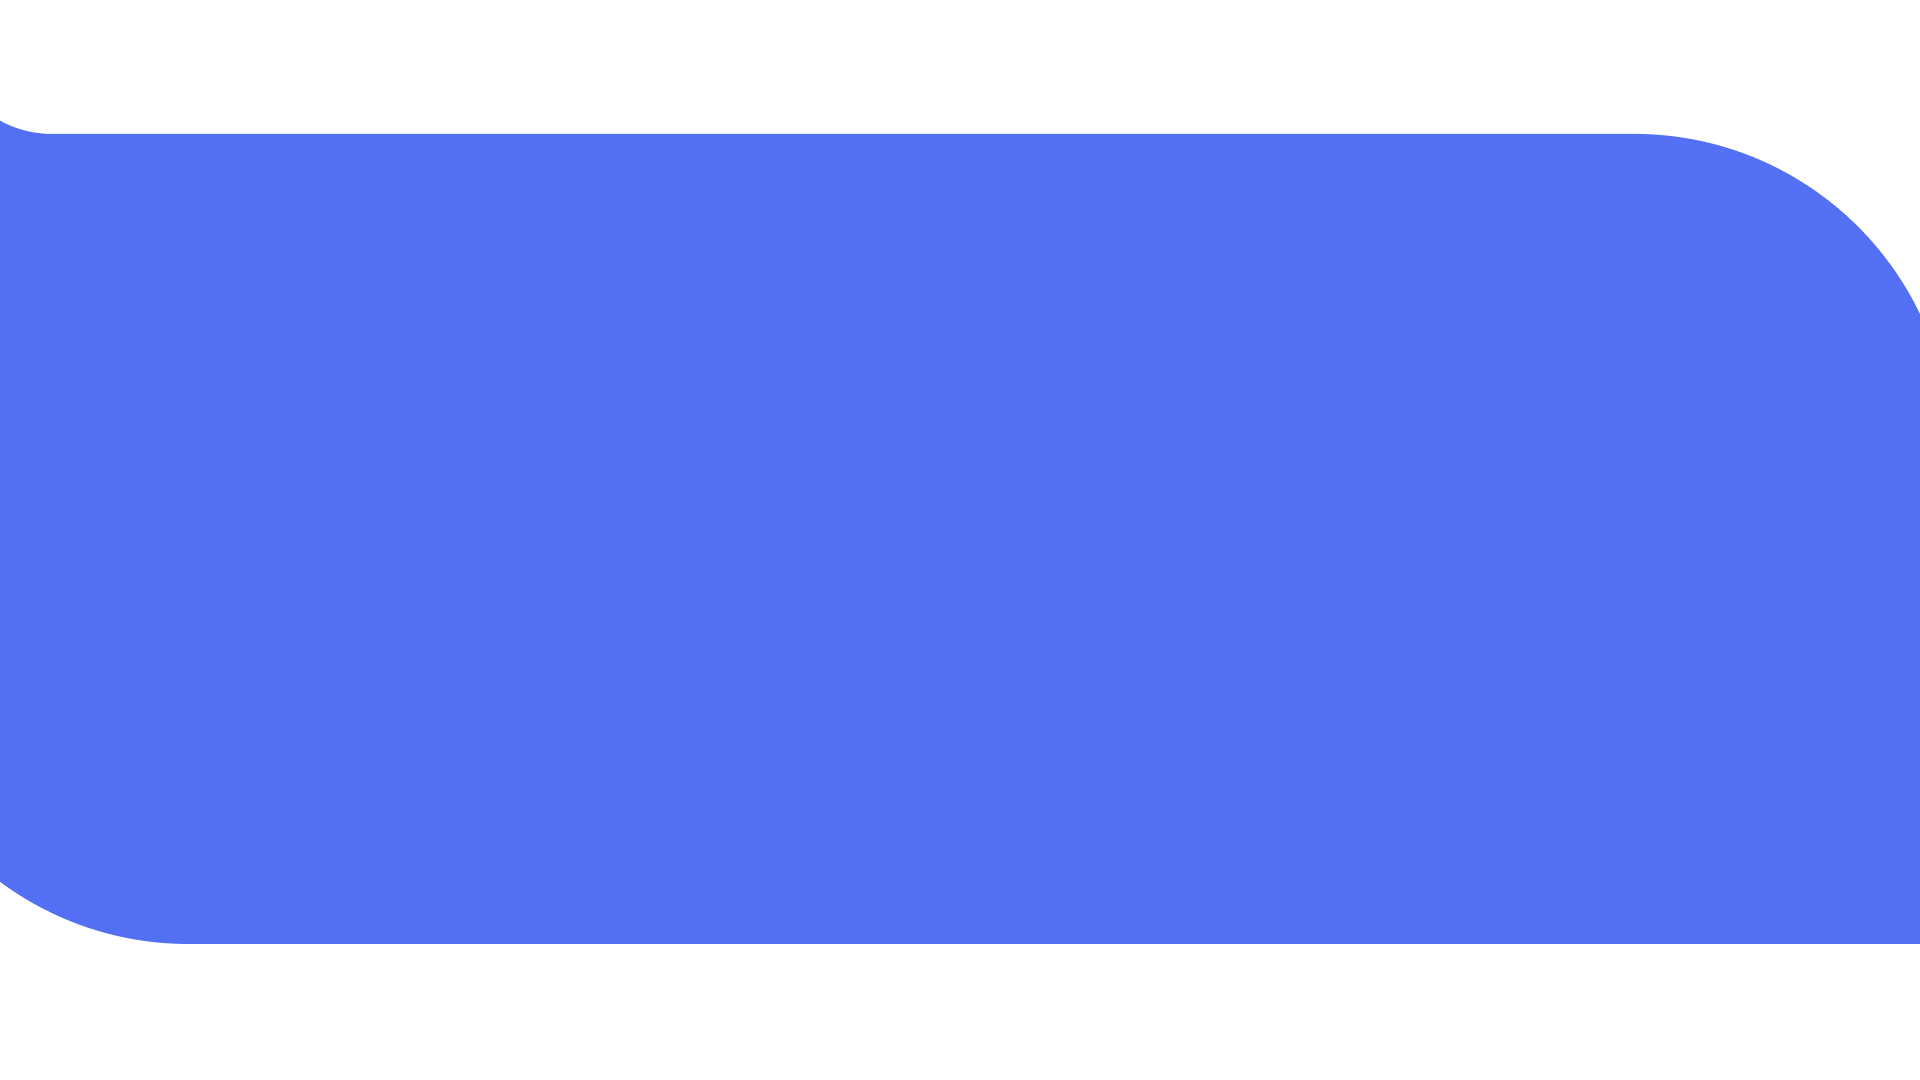
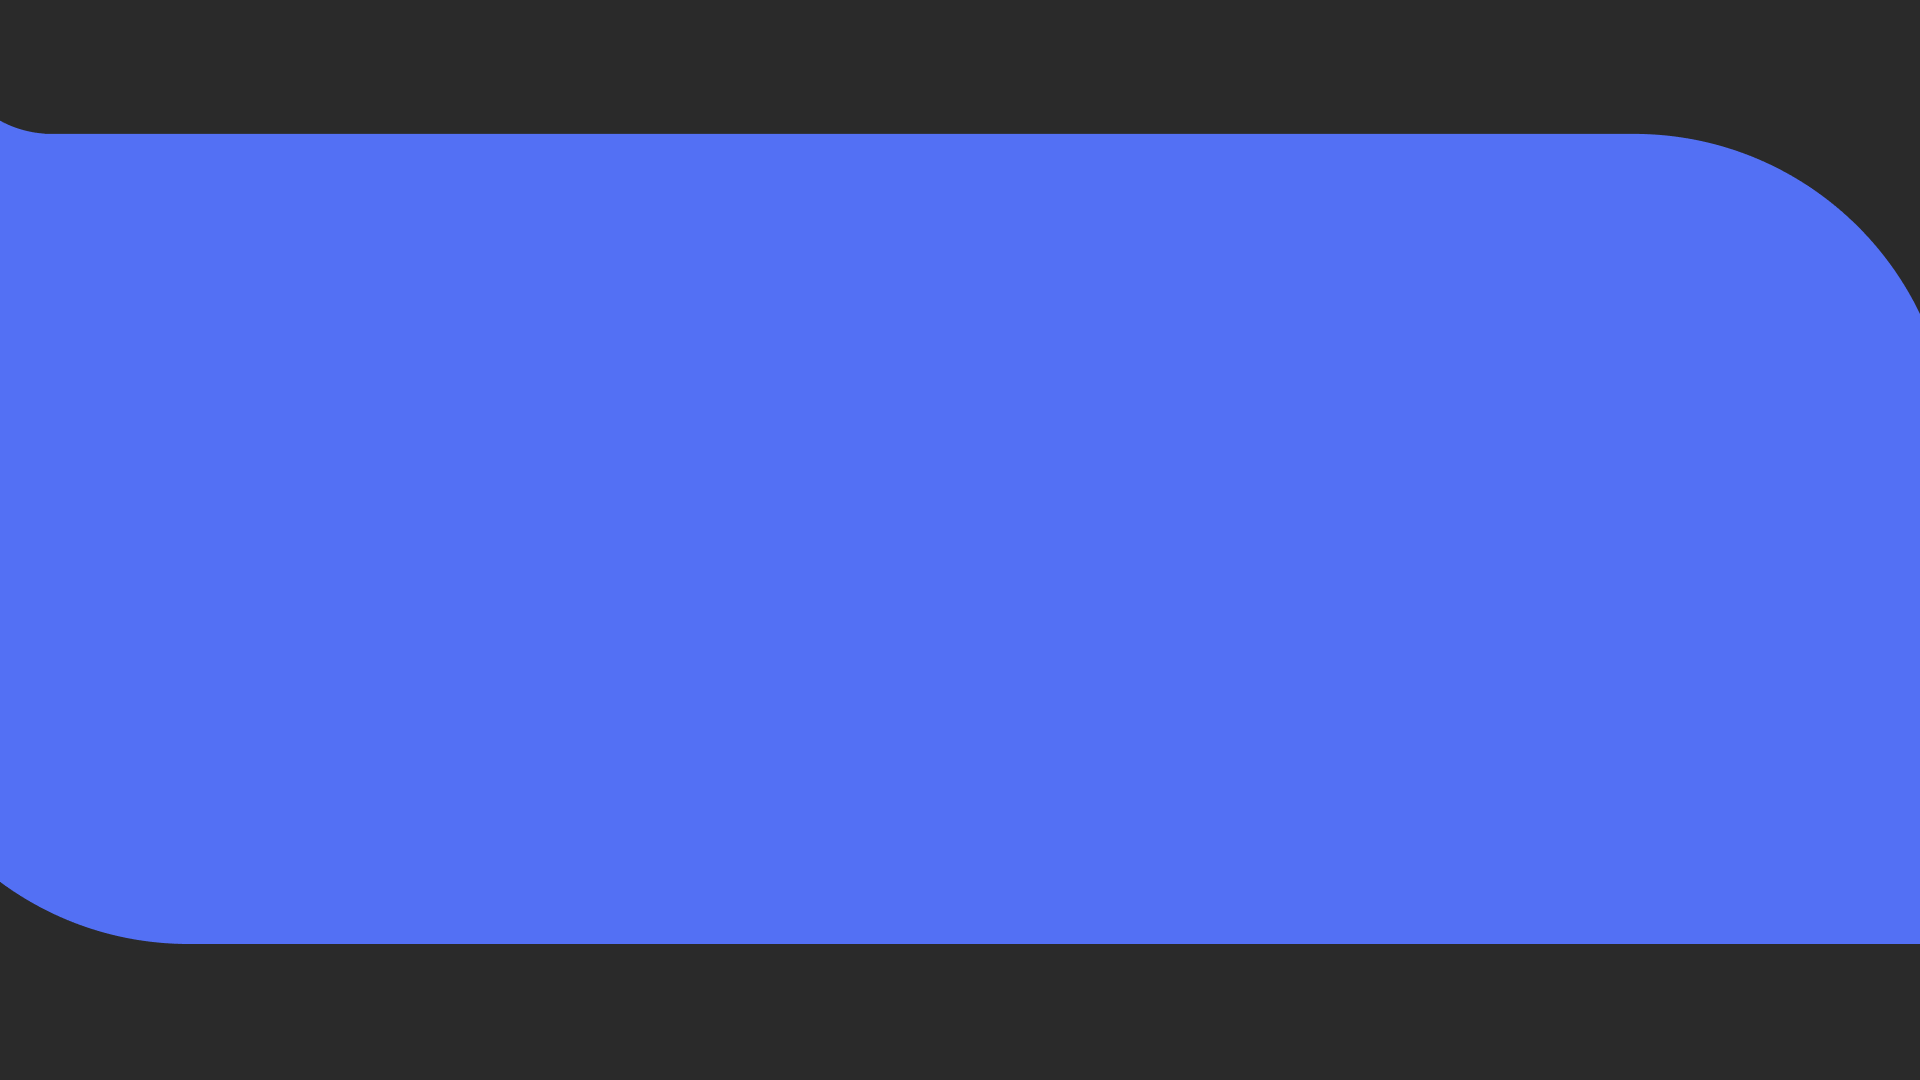
decorate

Changed region(s): [[0.0, 0.825, 1.0, 1.0], [0.0, 0.0, 1.0, 0.275]]

diff --git a/templates/template.html b/templates/template.html
@@ -9,12 +9,13 @@
 </head>
 <body class="custombg">
   <header>
-    <nav class="navbar navbar-expand-lg bg-primary">
+    <nav class="navbar navbar-expand-lg navbar-light shadow-lg">
       <div class="container-fluid">
-        <a class="navbar-brand" href="/" style="color: white;">Sketch2Face</a>
-        <div class="collapse navbar-collapse" id="navbarNavAltMarkup">
+        <!--<a class="navbar-brand" href="/" style="color: white;">Sketch2Face</a>-->
+        <img src="https://i.imgur.com/bp1wcmv.png">
+        <div class="collapse navbar-collapse" id="navbarNavAltMarkup" style="margin-left: 2rem">
           <div class="navbar-nav">
-            <a class="nav-link active" aria-current="page" href="/" style="color: white;">Generate</a>
+            <a class="nav-link active" aria-current="page" href="/" style="color: #5370F4;">Generate</a>
             <a class="nav-link" href="/records" style="color: white;">Records</a>
           </div>
           <div class="navbar-nav ms-auto">
@@ -25,17 +26,23 @@
     </nav>
   </header>
     <div  class="container d-flex justify-content-center " style="margin-top : 7rem;">
-      <form id="formElem"class="p-2" style=" margin-right: 10rem ;">
-        <h2>Sketch image</h2>
+      <form id="formElem"class="p-2" style=" margin-right: 5rem ;">
+        <h2 style="font-weight: bold; color: white">Sketch</h2>
         <div id="display-image" class="imag" style="background-color: white;"></div>
-        <input type="file" id="image-input" accept="image/*" name="image" required><br />
-        <input type="submit"  class="btn btn-light" value="Submit" >
-      </form>
+        <input type="file" id="image-input" accept="image/*" name="image" required style="color: white; margin-top:10px"><br />
+        <input type="submit"  class="submit1" value="Submit" style="margin-top:5px">
+      </form> 
+      <div class="justify-content-center  p-2" style=" margin-right: 15rem ;">
+        <div class="vertical-center " >
+          <img src="https://i.imgur.com/MCjKfnN.png"
+          alt="arrow" class="w-50 vh-50" style=" object-position: left; padding: 1rem; margin-top: 1rem;">
+        </div>
+      </div>
       <div class="p-2">
-        <h2>Generate image</h2>
-        <div id="receive-image" class="imag" style="background-color: white;" ></div>
-        <a href="" id="a"><button id="saveImage" class="btn btn-light">Download image</button></a>
-        <button onclick="saveDB()" id="saveDB" class="btn btn-light">Save to Database</button>
+        <h2 style="font-weight: bold; color: white">Generate</h2>
+        <div id="receive-image" class="imag" style="background-color: white; margin-bottom:10px" ></div>
+        <a href="" id="a"><button id="saveImage" class="button-1" style="width:128px; height:55px">Download image</button></a>
+        <button onclick="saveDB()" id="saveDB" class="button-2" style="width:128px; height:55px">Save to Database</button>
       </div>  
     </div>
     <script src="{{ url_for('static', filename='js/script.js') }}"></script>

diff --git a/templates/records.html b/templates/records.html
@@ -8,14 +8,15 @@
         <script type="module" src="{{ url_for('static', filename='js/auth_module.js') }}"></script>
         <script src="{{ url_for('static', filename='js/paginator.js') }}"></script>
     </head>
-    <body>
-        <nav class="navbar navbar-expand-lg bg-primary">
+    <body style="background-color:#2B2B2B;">
+        <nav class="navbar navbar-expand-lg navbar-light shadow-lg">
             <div class="container-fluid">
-              <a class="navbar-brand" href="/" style="color: white;">Sketch2Face</a>
-              <div class="collapse navbar-collapse" id="navbarNavAltMarkup">
+              <!--<a class="navbar-brand" href="/" style="color: white;">Sketch2Face</a>-->
+                <img src="https://i.imgur.com/bp1wcmv.png">
+                <div class="collapse navbar-collapse" id="navbarNavAltMarkup" style="margin-left: 2rem">
                 <div class="navbar-nav">
                   <a class="nav-link " href="/" style="color: white;">Generate</a>
-                  <a class="nav-link active" aria-current="page" href="/records" style="color: white;">Records</a>
+                  <a class="nav-link active" aria-current="page" href="/records" style="color: #5370F4;">Records</a>
                 </div>
                 <div class="navbar-nav ms-auto" >
                   <a class="nav-link" role="button" id="logOut" style="color: white;">Signout</a>
@@ -23,9 +24,9 @@
               </div>
             </div>
           </nav>
-        <div class="container" >
+        <div class="container" style="margin-top: 25px; margin-bottom: 25px">
             <div id="table_box_native">
-                <table>
+                <table class="styled-table">
                     <thead>
                         <tr>
                             <th>ID</th>
@@ -42,13 +43,13 @@
                             <td class="row-data">{{i.createDate}}</td>
                             <td class="row-data">{{i.updateDate}}</td>
                             <td class="row-data"><img src="http://localhost:8000/getImage/gen/{{i.id}}" onerror="reload(this)" class="imag"></td>
-                            <td><button type="button" onclick="show()">Details</button></td>
+                            <td><button class="button-68" type="button" onclick="show()">Details</button></td>
                         </tr>
                         {% endfor %}
                     </tbody>
                 </table>
             </div>
-            <div id="index_native" class="box d-flex justify-content-between  "></div>
+            <div id="index_native" class="box d-flex justify-content-between " style="color:white;"></div>
         </div>
         
         <!-- <button id="logOut">SignOUT</button>

diff --git a/templates/detail.html b/templates/detail.html
@@ -3,29 +3,29 @@
     <head>
         <meta charset="UTF-8">
         <title>detail</title>
-        <link rel="stylesheet" href="{{ url_for('static', filename='css/design.css') }}">
+        <link rel="stylesheet" href="{{ url_for('static', filename='css/detail.css') }}">
         <link href="https://cdn.jsdelivr.net/npm/bootstrap@5.2.3/dist/css/bootstrap.min.css" rel="stylesheet" integrity="sha384-rbsA2VBKQhggwzxH7pPCaAqO46MgnOM80zW1RWuH61DGLwZJEdK2Kadq2F9CUG65" crossorigin="anonymous">
       </head>
-    <body style="background-color: #5370F4;">
+    <body style="background-color: #2A2A2A;">
         <div  class="container d-flex justify-content-center">
             <div class="p-2">
-                <h2>Sketch image</h2>
+                <h2 style="font-weight: bold; color: white">Sketch image</h2>
                 <div id="ori-image" class="imag"></div>
-                <a href="" id="a"><button id="saveOriImage">Download image</button></a>
+                <a href="" id="a"><button id="saveOriImage" class="button-3" style="margin-top:15px">Download image</button></a>
             </div>
             <div class="p-2">
-                <h2>Generate image</h2>
+                <h2 style="font-weight: bold; color: white">Generate image</h2>
                 <div id="gen-image" class="imag" ></div> 
-                <a href="" id="b"><button id="saveGenImage">Download image</button></a>
+                <a href="" id="b"><button id="saveGenImage" class="button-3" style="margin-top:15px">Download image</button></a>
             </div> 
             <div class="p-2">
-                <h2>Real image</h2>
+                <h2 style="font-weight: bold; color: white">Real image</h2>
                 <form id="formElem" >
                     <div id="display-image" class="imag"></div>
-                    <input type="file" id="real-image-input" accept="image/*" name="image" required>
-                    <input type="submit" id="submit-real-img">
+                    <input type="file" id="real-image-input" accept="image/*" name="image" required style="color: white; margin-top:10px">
+                    <input type="submit" id="submit-real-img" style="margin-top:5px">
                 </form>
-                <a href="" id="c"><button id="saveRealImage">Download image</button></a>
+                <a href="" id="c"><button id="saveRealImage" class="button-3" style="margin-top:15px">Download image</button></a>
             </div>
         </div>
         <!-- <script src="{{ url_for('static', filename='js/script.js') }}"></script> -->

diff --git a/templates/login.html b/templates/login.html
@@ -14,18 +14,24 @@
     <link rel="preconnect" href="https://fonts.gstatic.com" crossorigin>
     <link href="https://fonts.googleapis.com/css2?family=Inter:wght@600&display=swap" rel="stylesheet">
   </head>
-  <body>
+  <body class="custombg">
     <section class="vh-100">
       <div class="container-fluid">
         <div class="row">
-          <div class="col-sm-6 text-black">
+          <div class="col-sm-6 text-black" >
             <div class="px-5 ms-xl-4">
               <i class="fas fa-crow fa-2x me-3 pt-5 mt-xl-4" style="color: #709085;"></i>
-              <span class="h1 fw-bold mb-0 " style="color:#5370F4; font-family: 'Inter', sans-serif;">S<span class="h1 fw-bold mb-0 " style="color:#000000; font-family: 'Inter', sans-serif;">ketch 2<br />Face</span></span>
+              <!--<span class="h1 fw-bold mb-0 " style="color:#5370F4; font-family: 'Inter', sans-serif;">S<span class="h1 fw-bold mb-0 " style="color:#000000; font-family: 'Inter', sans-serif;">ketch 2<br />Face</span></span> -->
+              <span class="h1 fw-bold mb-0 " style="color:#5370F4; font-family: 'Inter', sans-serif;"></br></span>
+              <img src="https://i.imgur.com/PRQhjmu.png"
+              alt="Login image" class="w-50 vh-50" style=" object-position: left; padding: 1rem;">
+              <p style="object-position: left; padding: 1rem; margin-bottom: 5rem; color: white;" >dfdfdffffffffffffffffffffffffffffffffffffffffffffffffffffffffffffffffff</p>
+
+              <div class="d-flex align-items-center h-custom-2 justify-content-center">
+                <div id="firebaseui-auth-container" style="width: 25rem;"></div>
+              </div>
             </div>
-            <div class="d-flex align-items-center h-custom-2 justify-content-center">
-              <div id="firebaseui-auth-container" style="width: 25rem;"></div>
-            </div>
+            
           </div>
           <div class="col-sm-6 px-0 d-none d-sm-block">
             <img src="https://images.squarespace-cdn.com/content/v1/5086f19ce4b0ad16ff15598d/1387496504262-RI4LRA68KSKCTHXT8O8T/unnamed+%283%29.jpg"

diff --git a/static/css/detail.css b/static/css/detail.css
@@ -95,70 +95,6 @@
   box-shadow: rgba(20, 70, 32, .2) 0 1px 0 inset;
 }
 
-.button-1 {
-  background-color: #EA4C89;
-  border-radius: 8px;
-  border-style: none;
-  box-sizing: border-box;
-  color: black;
-  cursor: pointer;
-  display: inline-block;
-  font-family: "Haas Grot Text R Web", "Helvetica Neue", Helvetica, Arial, sans-serif;
-  font-size: 14px;
-  font-weight: 500;
-  height: 40px;
-  line-height: 20px;
-  list-style: none;
-  margin: 0;
-  outline: none;
-  padding: 10px 16px;
-  position: relative;
-  text-align: center;
-  text-decoration: none;
-  transition: color 100ms;
-  vertical-align: baseline;
-  user-select: none;
-  -webkit-user-select: none;
-  touch-action: manipulation;
-}
-
-.button-1:hover,
-.button-1:focus {
-  background-color: #F082AC;
-}
-
-.button-2 {
-  background-color: #F49D1A;
-  border-radius: 8px;
-  border-style: none;
-  box-sizing: border-box;
-  color: black;
-  cursor: pointer;
-  display: inline-block;
-  font-family: "Haas Grot Text R Web", "Helvetica Neue", Helvetica, Arial, sans-serif;
-  font-size: 14px;
-  font-weight: 500;
-  height: 40px;
-  line-height: 20px;
-  list-style: none;
-  margin: 0;
-  outline: none;
-  padding: 10px 16px;
-  position: relative;
-  text-align: center;
-  text-decoration: none;
-  transition: color 100ms;
-  vertical-align: baseline;
-  user-select: none;
-  -webkit-user-select: none;
-  touch-action: manipulation;
-}
-
-.button-2:hover,
-.button-1:focus {
-  background-color: #FFE15D;
-}
-
 /* h2{
   color: white;
 } */
@@ -180,15 +116,15 @@ input[type=file]::file-selector-button:hover {
 }
 
 input[type=submit]{
-  border: 2px solid #8CFF9E;
+  border: 2px solid #5370F4;
   padding: .2em .4em;
   border-radius: .2em;
-  background-color: #8CFF9E;
+  background-color: #5370F4;
   transition: 1s;
-  color:black;
+  color:white;
 }
 
 input[type=submit]:hover {
-  background-color: #53bc62;
-  border: 2px solid #3eab4e;
+  background-color: #4961d1;
+  border: 2px solid #3d51ad;
 }

diff --git a/static/css/records.css b/static/css/records.css
@@ -1,3 +1,91 @@
+.styled-table {
+  border-collapse: collapse;
+  margin: 25px 0;
+  font-size: 0.9em;
+  font-family: sans-serif;
+  min-width: 400px;
+  box-shadow: 0 0 20px rgba(0, 0, 0, 0.378);
+}
+
+.styled-table thead tr {
+  background-color: #5370F4;
+  color: #ffffff;
+  text-align: left;
+}
+
+.styled-table th,
+.styled-table td {
+    padding: 12px 15px;
+}
+
+.styled-table tbody tr {
+  border-bottom: 1px solid #dddddd;
+}
+
+.styled-table tbody tr:nth-of-type(odd) {
+  background-color: #f3f3f3;
+}
+
+.styled-table tbody tr:nth-of-type(even) {
+  background-color: #F8F5F1;
+}
+
+.styled-table tbody tr:last-of-type {
+  border-bottom: 2px solid #5370F4;
+}
+
+.styled-table tbody tr.active-row {
+  font-weight: bold;
+  color: #5370F4;
+}
+
+.button-68 {
+  appearance: none;
+  backface-visibility: hidden;
+  background-color: #27ae60;
+  border-radius: 8px;
+  border-style: none;
+  box-shadow: rgba(39, 174, 96, .15) 0 4px 9px;
+  box-sizing: border-box;
+  color: #fff;
+  cursor: pointer;
+  display: inline-block;
+  font-family: Inter,-apple-system,system-ui,"Segoe UI",Helvetica,Arial,sans-serif;
+  font-size: 16px;
+  font-weight: 600;
+  letter-spacing: normal;
+  line-height: 1.5;
+  outline: none;
+  overflow: hidden;
+  padding: 13px 20px;
+  position: relative;
+  text-align: center;
+  text-decoration: none;
+  transform: translate3d(0, 0, 0);
+  transition: all .3s;
+  user-select: none;
+  -webkit-user-select: none;
+  touch-action: manipulation;
+  vertical-align: top;
+  white-space: nowrap;
+}
+
+.button-68:hover {
+  background-color: #1e8449;
+  opacity: 1;
+  transform: translateY(0);
+  transition-duration: .35s;
+}
+
+.button-68:active {
+  transform: translateY(2px);
+  transition-duration: .35s;
+}
+
+.button-68:hover {
+  box-shadow: rgba(39, 174, 96, .2) 0 6px 12px;
+}
+
 table {
     border-collapse: collapse;
     width: 100%;

diff --git a/static/css/login.css b/static/css/login.css
@@ -11,3 +11,11 @@
     height: 75%;
     }
     }
+
+.custombg{
+    background-image: url("/static/login_bg.jpg");
+    background-size: 100% 100%;
+    height: 100vh;
+    background-repeat: no-repeat;
+    background-attachment: fixed;
+    }
